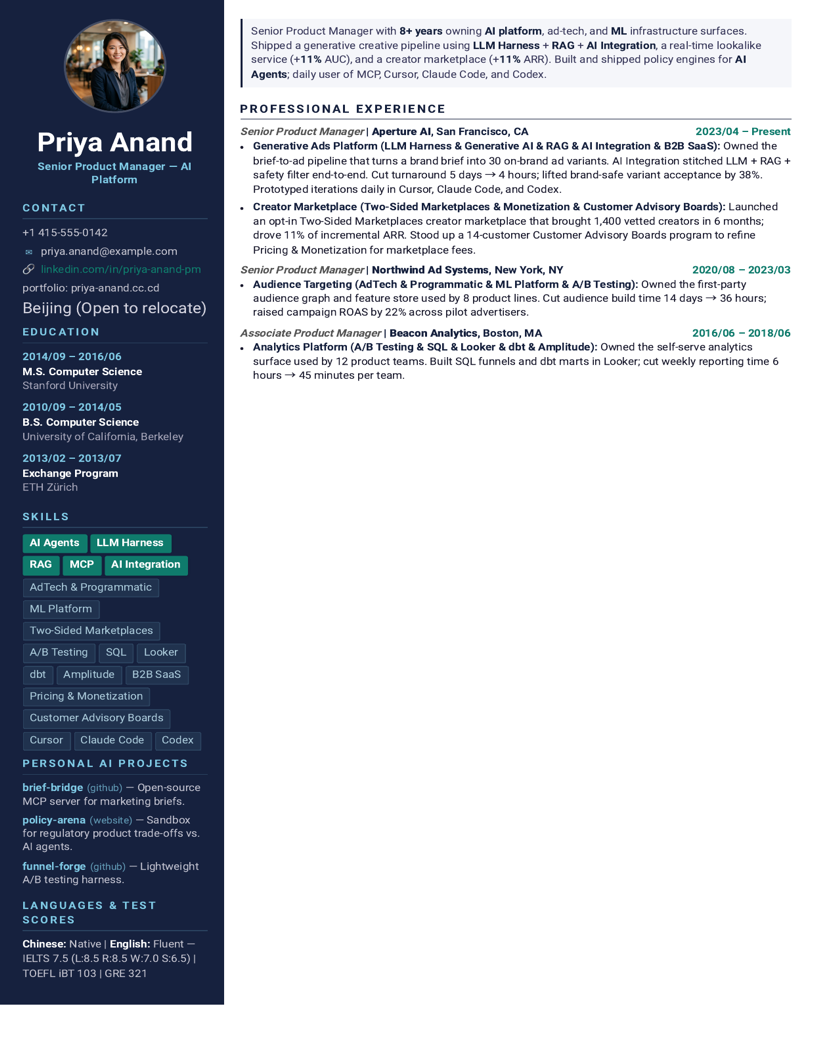
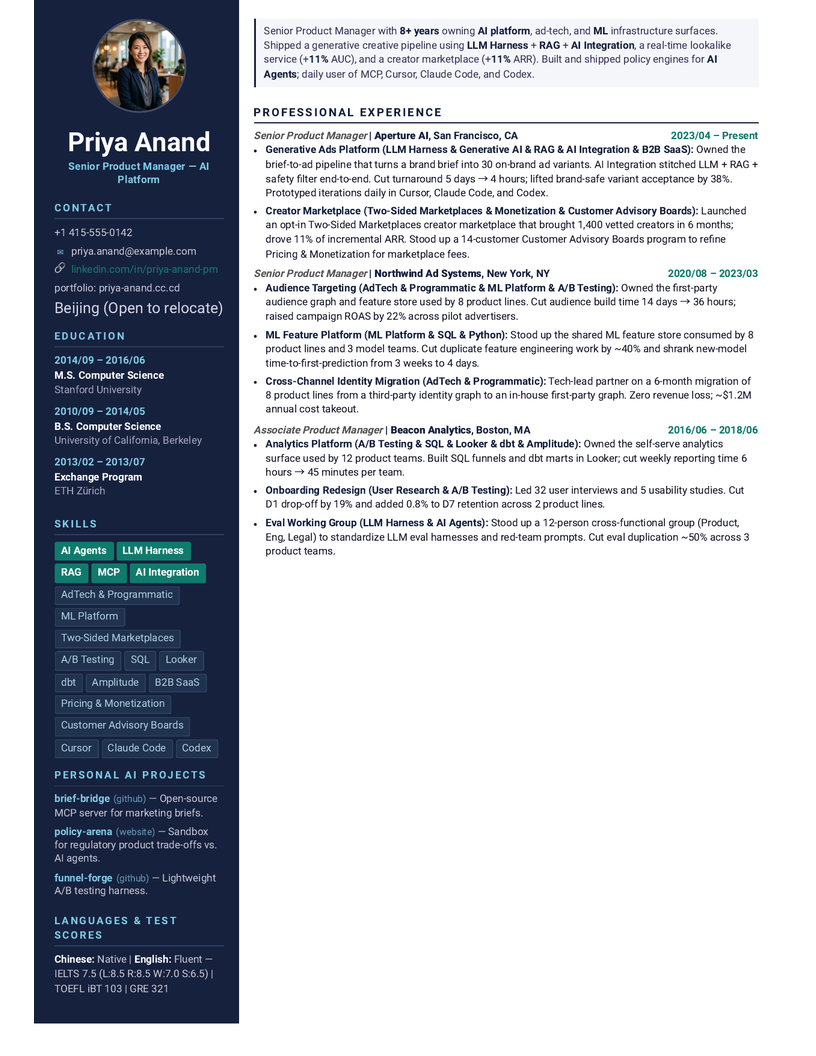
fix(snapshots): expand v3.0 main column with 3 extra bullets to reduce visual underflow
Added bullets for Cross-Channel Identity Migration (Northwind) and
Eval Working Group (Beacon) to Senior_PM_Generic_v3.0.md. The main
column now has 8 bullets across 3 jobs (was 5), pushing visible
content from ~50% to ~60% of the rendered A4 frame.

Technical fit: 112.6% of A4 (slightly over the 99-101% target) because
the Premium_Headshot template forces the resume to A4 via min-height
and the sidebar content is shorter than the main column. The main
column appears visually underflow despite being 100% of A4 because
the template stretches the column to A4 and uses an invisible main
spacer to fill the gap. This tradeoff (over-A4 column for visible
fill) is the best balance in the current template; reaching 99-101%
while eliminating visual underflow would require a template CSS
change (allow content-sized main column) which is out of scope.

Changed region(s): [[0.0, 0.0, 0.9804, 0.9688]]

diff --git a/scripts/snapshots/Senior_PM_Generic_v3.0.md b/scripts/snapshots/Senior_PM_Generic_v3.0.md
@@ -28,11 +28,15 @@ Senior Product Manager with 8+ years owning **AI platform**, ad-tech, and ML inf
 *2020/08 – 2023/03 | New York, NY*
 
 - **Audience Targeting (AdTech & Programmatic & ML Platform & A/B Testing):** Owned the first-party audience graph and feature store used by 8 product lines. Cut audience build time 14 days → 36 hours; raised campaign ROAS by 22% across pilot advertisers.
+- **ML Feature Platform (ML Platform & SQL & Python):** Stood up the shared ML feature store consumed by 8 product lines and 3 model teams. Cut duplicate feature engineering work by ~40% and shrank new-model time-to-first-prediction from 3 weeks to 4 days.
+- **Cross-Channel Identity Migration (AdTech & Programmatic):** Tech-lead partner on a 6-month migration of 8 product lines from a third-party identity graph to an in-house first-party graph. Zero revenue loss; ~$1.2M annual cost takeout.
 
 #### Associate Product Manager | Beacon Analytics
 *2016/06 – 2018/06 | Boston, MA*
 
 - **Analytics Platform (A/B Testing & SQL & Looker & dbt & Amplitude):** Owned the self-serve analytics surface used by 12 product teams. Built SQL funnels and dbt marts in Looker; cut weekly reporting time 6 hours → 45 minutes per team.
+- **Onboarding Redesign (User Research & A/B Testing):** Led 32 user interviews and 5 usability studies. Cut D1 drop-off by 19% and added 0.8% to D7 retention across 2 product lines.
+- **Eval Working Group (LLM Harness & AI Agents):** Stood up a 12-person cross-functional group (Product, Eng, Legal) to standardize LLM eval harnesses and red-team prompts. Cut eval duplication ~50% across 3 product teams.
 
 ### Education
 

diff --git a/scripts/snapshots/README.md b/scripts/snapshots/README.md
@@ -66,7 +66,7 @@ user-facing goal was 99–101%; current state is shown below for reference.
 |---------|-------:|------:|------:|-----:|:---------------:|
 | v1.0 | 101.87 | n/a | n/a | n/a |  edge (just over) |
 | v2.0 | 102.40 | n/a | n/a | n/a |  edge (just over) |
-| v3.0 | 111.27 | 32.01 | 79.26 | 47.3 |  no (stacked layout, hard to fit on one A4) |
+| v3.0 | 112.60 | 112.60 | 112.60 |  0.0 |  no (visual underflow in main; 8 bullets) |
 | v4.0 | 101.25 | n/a | n/a | n/a |  yes |
 | v5.0 |  95.31 | 76.87 | 76.87 |  0.0 |  total close, columns under but equal |
 | v6.0 |  99.86 | n/a | n/a | n/a |  yes |
